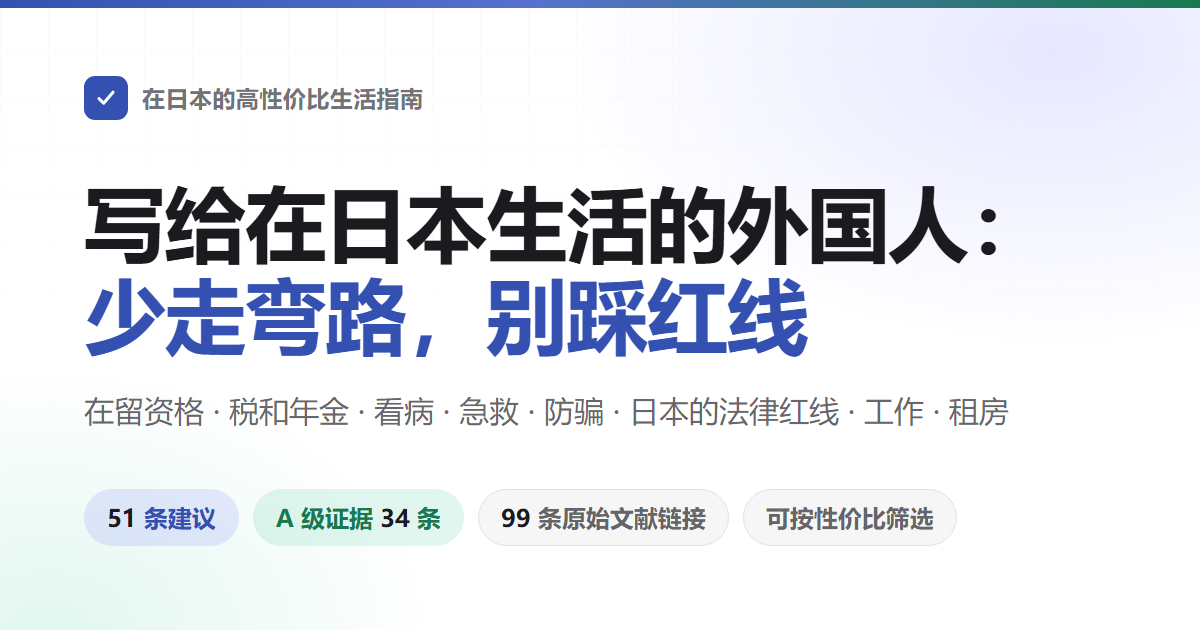
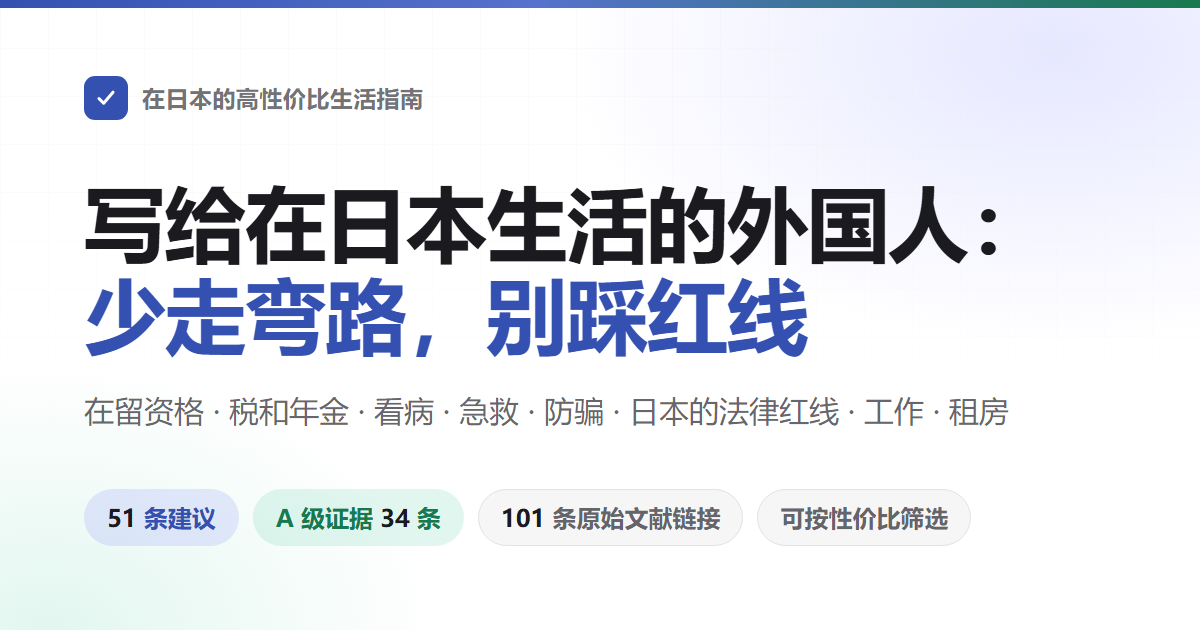
第 7 节补上劳动审判的过程成本（法院公布的平均 82.6 天、3 次开庭、2 周异议转诉讼）和律师费的负担规则，去掉两处 TODO

Changed region(s): [[0.4008, 0.7841, 0.8017, 0.8444]]

diff --git a/tools/og.html b/tools/og.html
@@ -36,7 +36,7 @@ p{margin-top:26px;font-size:30px;white-space:nowrap;line-height:1.6;color:#3c3c4
   <div class="chips">
     <div class="c u"><b>51</b> 条建议</div>
     <div class="c a">A 级证据 <b>34</b> 条</div>
-    <div class="c"><b>99</b> 条原始文献链接</div>
+    <div class="c"><b>101</b> 条原始文献链接</div>
     <div class="c">可按性价比筛选</div>
   </div>
 </div>

diff --git a/book/07-工作.md b/book/07-工作.md
@@ -19,8 +19,8 @@
 - 说人话：每天超过 8 小时、每周超过 40 小时就算加班，要多给至少 25%。法定休息日上班多给 35%，晚上 10 点到早上 5 点多给 25%。一个月加班超过 60 小时的部分，至少多给 50%。没给的加班费，3 年内都能追讨。
 - 收益：劳动基准法规定，除休息时间外，每周劳动不得超过 40 小时，每天不得超过 8 小时。延长劳动时间或在休日劳动的，要按 25% 到 50% 之间、政令规定比例以上的比例支付加班工资。政令规定的比例是：延长的劳动时间 25%，休日劳动 35%。一个月延长时间超过 60 小时的部分，按 50% 以上支付。晚上 10 点到早上 5 点劳动的，加付 25% 以上。工资要以现金直接全额支付，每月至少一次、定期支付。依劳动基准法的工资请求权，退职金以外的部分，当前适用 3 年时效
 - 证据等级：A
-- 来源：労働基準法 第二十四条、第三十二条、第三十七条、第百十五条、附則第百四十三条. <https://laws.e-gov.go.jp/law/322AC0000000049> ; 労働基準法第三十七条第一項の時間外及び休日の割増賃金に係る率の最低限度を定める政令. <https://laws.e-gov.go.jp/law/406CO0000000005>
-- 备注：要回欠的加班费，第一步是带着记录去劳动基准监督署反映，不收费。公司还是不付，才要考虑劳动审判或者诉讼，要花多少时间、律师费谁出，TODO（待核实）。收益量级按欠薪常常累积到几十万日元判为大。留学生打工有每周 28 小时的上限，加班也算在里面，见第 2 节第 5 条（每周不超过 28 小时）。
+- 来源：労働基準法 第二十四条、第三十二条、第三十七条、第百十五条、附則第百四十三条. <https://laws.e-gov.go.jp/law/322AC0000000049> ; 労働基準法第三十七条第一項の時間外及び休日の割増賃金に係る率の最低限度を定める政令. <https://laws.e-gov.go.jp/law/406CO0000000005> ; 裁判所「労働審判手続」（2026-10-03 访问）. <https://www.courts.go.jp/saiban/syurui/syurui_minzi/minzi_25_21/index.html> ; 民事訴訟費用等に関する法律 第二条. <https://laws.e-gov.go.jp/law/346AC0000000040>
+- 备注：要回欠的加班费，第一步是带着记录去劳动基准监督署反映，不收费。公司还是不付，才要考虑劳动审判或诉讼。劳动审判原则上开庭不超过 3 次，2006 到 2024 年结案的平均审理 82.6 天，65.5% 在 3 个月内结束；对审判结果 2 周内提异议，就转成诉讼。民事诉讼费用法列的诉讼费用里，律师报酬只有法院命令选任的情形，自己请的律师原则上自己付。收益量级按欠薪常常累积到几十万日元判为大。留学生打工有每周 28 小时的上限，加班也算在里面，见第 2 节第 5 条（每周不超过 28 小时）。
 
 ### 3. 签约前要一份书面的劳动条件，实际和写的不一样，可以当场辞职
 <!-- 成本标签: 钱=0 时间=少 毅力=否 收益=中 口径=金钱 -->
@@ -47,7 +47,7 @@
 - 收益：劳动基准法规定，雇主解雇劳动者，至少要提前 30 天预告。不提前 30 天预告的，要支付 30 天以上的平均工资。每付 1 天的平均工资，预告天数可以缩短 1 天。劳动合同法规定，解雇欠缺客观合理的理由、按社会通念不能认为相当的，作为滥用权利无效。对有期劳动合同，没有不得已的事由，在合同期满之前不能解雇
 - 证据等级：A
 - 来源：労働基準法 第二十条. <https://laws.e-gov.go.jp/law/322AC0000000049> ; 労働契約法 第十六条、第十七条. <https://laws.e-gov.go.jp/law/419AC0000000128>
-- 备注：「解雇无效」是法院判断的结果，要争的话要走劳动审判或诉讼，耗时和律师费 TODO（待核实）。先打劳动咨询电话问清楚，见第 7 条（中文劳动咨询电话）。离职后 14 天内要向入管申报，3 个月内要找到对口工作，见第 2 节第 3 条（离职、换工作之后申报）和第 2 节第 4 条（离职或退学后别空着超过 3 个月）。收益量级按预告补偿常是一个月左右的工资判为中。
+- 备注：「解雇无效」要由法院认定，争的话走劳动审判或诉讼，过程成本见第 2 条（加班费）的备注。先打劳动咨询电话问清楚，见第 7 条（中文劳动咨询电话）。离职后 14 天内要向入管申报，3 个月内要找到对口工作，见第 2 节第 3 条（离职、换工作之后申报）和第 2 节第 4 条（离职或退学后别空着超过 3 个月）。收益量级按预告补偿常是一个月左右的工资判为中。
 
 ### 6. 技能实习生的护照和在留卡，公司和监理团体都不能替你保管
 <!-- 成本标签: 钱=0 时间=少 毅力=些 收益=中 口径=自由 -->

diff --git a/README.md b/README.md
@@ -11,7 +11,7 @@
 
 [![条目](https://img.shields.io/badge/%E6%9D%A1%E7%9B%AE-51%20%E6%9D%A1-18794e?style=flat-square)](#目录)
 [![证据分级](https://img.shields.io/badge/%E8%AF%81%E6%8D%AE%E5%88%86%E7%BA%A7-A%2034%20%C2%B7%20B%2016%20%C2%B7%20C%201-915930?style=flat-square)](#证据分级)
-[![原始文献](https://img.shields.io/badge/%E5%8E%9F%E5%A7%8B%E6%96%87%E7%8C%AE-99%20%E6%9D%A1%E9%93%BE%E6%8E%A5-565a5f?style=flat-square)](docs/核实记录/)
+[![原始文献](https://img.shields.io/badge/%E5%8E%9F%E5%A7%8B%E6%96%87%E7%8C%AE-101%20%E6%9D%A1%E9%93%BE%E6%8E%A5-565a5f?style=flat-square)](docs/核实记录/)
 [![许可](https://img.shields.io/badge/%E8%AE%B8%E5%8F%AF-CC%20BY%204.0-565a5f?style=flat-square)](#许可)
 
 ### [打开在线检索页](https://masteren.github.io/HowToLiveBetter-JP/)
@@ -80,7 +80,7 @@
 | B | 有研究支持，但说不出一个确切数字；或者只有小样本、单独一项研究撑着；制度类条目是有官方文件但具体数字由各地自治体定 |
 | C | 作者自己的经验，或者大家公认的做法，没有直接的研究文献 |
 
-全书 51 条中 A 级 34 条、B 级 16 条、C 级 1 条，另有 1 条标注了争议、2 处标注了 TODO 待核实。来源只引原始文献：期刊论文附 DOI 或 PubMed 链接，或者日本的法令原文、省厅和自治体的官方页面、WHO 等机构的报告。不引二手转述。
+全书 51 条中 A 级 34 条、B 级 16 条、C 级 1 条，另有 1 条标注了争议、0 处标注了 TODO 待核实。来源只引原始文献：期刊论文附 DOI 或 PubMed 链接，或者日本的法令原文、省厅和自治体的官方页面、WHO 等机构的报告。不引二手转述。
 
 ## 性价比档
 

diff --git a/docs/引用对照.md b/docs/引用对照.md
@@ -23,7 +23,7 @@
 「……的贷款见本节第 15 条」被顺延撞到新条目「在家给境外公司远程干活……个税自己报」上，
 隔着两个逗号的「你自己还」冒充了锚点，`--check` 当时报的是通过。
 
-共 24 处引用。
+共 25 处引用。
 
 ## 01-不要早死
 
@@ -81,5 +81,6 @@
 | 第 3 条 | 本节第 7 条 | 工资、加班、解雇的事拿不准，打厚生劳动省的中文劳动咨询电话 | …合同语言看不懂的，可以先打中文劳动咨询电话问，见… |
 | 第 5 条 | 第 2 节第 3 条 | 离职、换工作、转学之后 14 天内向入管申报，网上就能办 | …离职后 14 天内要向入管申报，3 个月内要找到对口工作，见… |
 | 第 5 条 | 第 2 节第 4 条 | 离职或退学后别空着超过 3 个月，尽快找到对口的工作或者改资格 | …要向入管申报，3 个月内要找到对口工作，见第 2 节第 3 条（离职、换工作之后申报）和… |
+| 第 5 条 | 本节第 2 条 | 每天超过 8 小时、每周超过 40 小时的部分要给加班费，记下自己的上下班时间 | …「解雇无效」要由法院认定，争的话走劳动审判或诉讼，过程成本见… |
 | 第 5 条 | 本节第 7 条 | 工资、加班、解雇的事拿不准，打厚生劳动省的中文劳动咨询电话 | …先打劳动咨询电话问清楚，见… |
 | 第 6 条 | 第 5 节第 3 条 | 在留卡不借、不买、不卖，也不用别人的 | …在留卡也不能借给别人用，见… |
